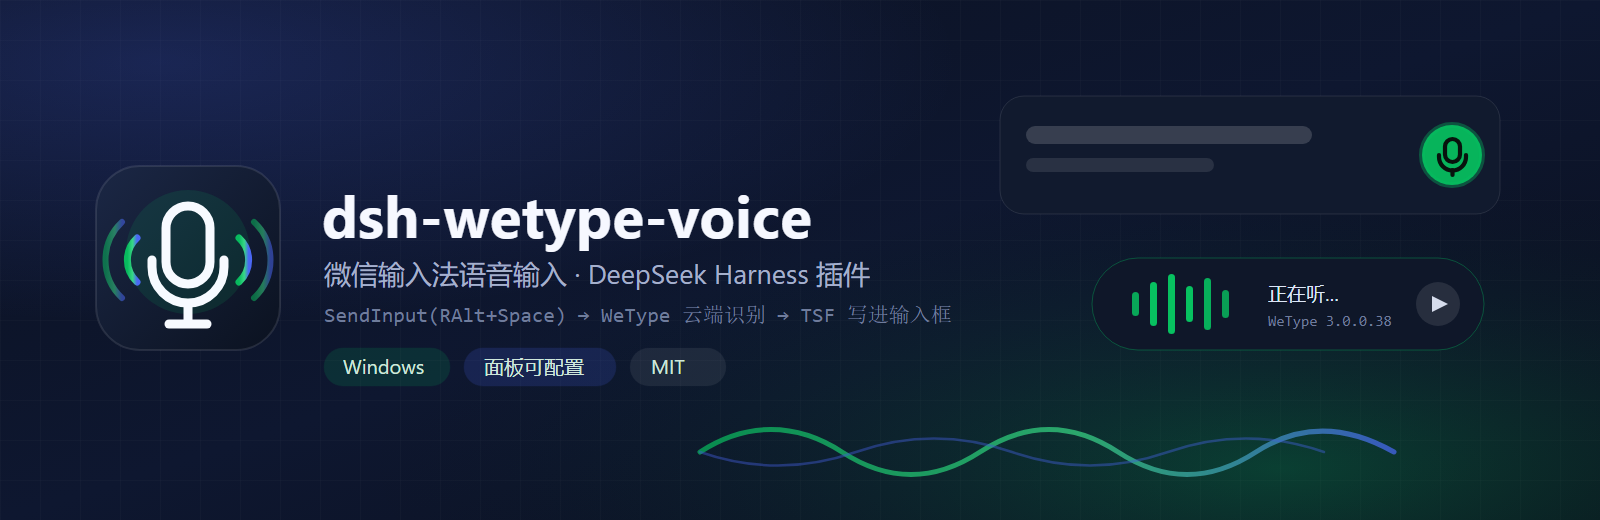
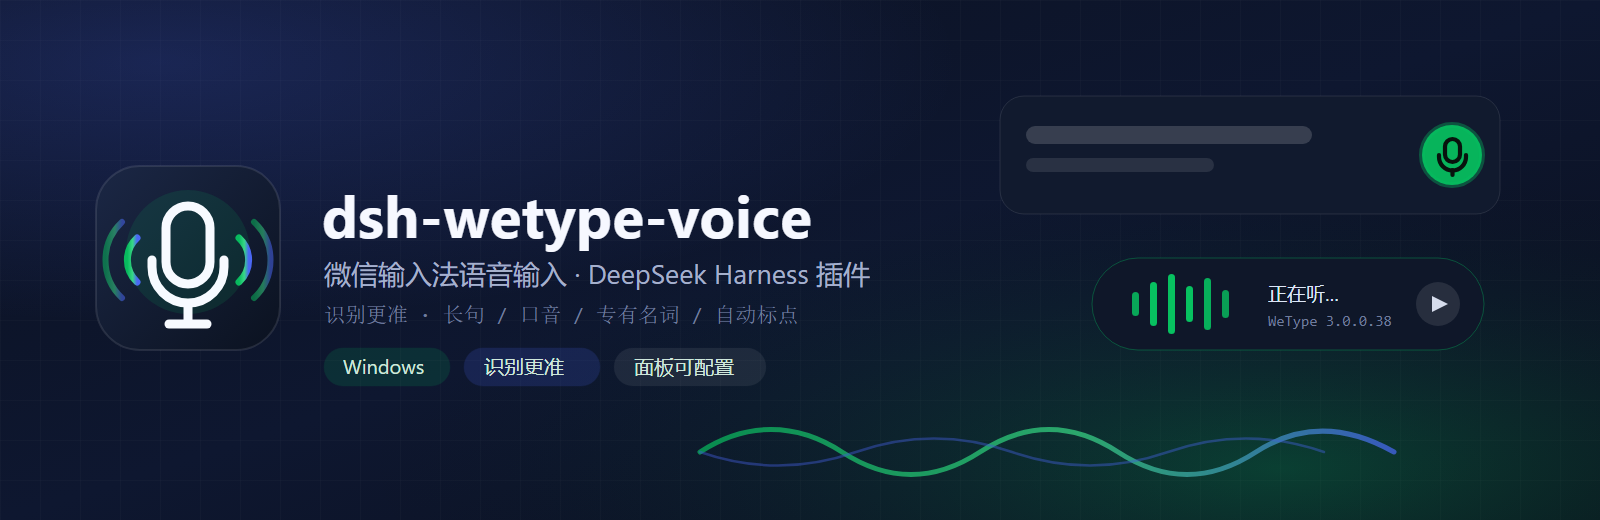
docs: lead with recognition accuracy, not local compute
The point of swapping the recogniser is that WeType's dictation is markedly
more accurate (long sentences, accents, proper nouns, punctuation) - dropping
the 240MB local model is only a side effect. Reframes the README opening and
comparison table, and rewrites the banner subtitle and the struck-through
built-in chain in the data-flow diagram to say so.

Changed region(s): [[0.1875, 0.5846, 0.5938, 0.6462], [0.2812, 0.6769, 0.4688, 0.7385]]

diff --git a/README.md b/README.md
@@ -6,7 +6,8 @@
 
 **把 DeepSeek Harness 输入框上的麦克风，换成微信输入法的语音输入。**
 
-不用内置的那套本地小模型 —— 点一下，微信输入法自己录音、云端识别、直接把文字写进输入框。
+不用内置的那套本地小模型 —— 内置的识别不准：长句掉字、口音认错、专有名词写歪、标点靠猜。
+换成微信输入法的听写后，点一下就开始说，文字直接落进输入框。
 
 [![platform](https://img.shields.io/badge/platform-Windows%20only-0078D6?logo=windows&logoColor=white)](#换一台电脑)
 [![dsh](https://img.shields.io/badge/DSH-plugin-4D6BFE)](#安装)
@@ -20,25 +21,30 @@
 
 ---
 
-## 为什么
+## 为什么换
 
-DSH 内置的语音输入是这条链路：
+要解决的问题**不是算力，是识别准确率**。
+
+DSH 内置的语音输入把这件事交给一个跑在本机的小模型：
 
 ```
 MediaRecorder 录音 → 上传 Host → sherpa-onnx + SenseVoice int8 本地识别 → 插入草稿
 ```
 
-本地小模型（~240MB int8）短句还行，长句、口音、专有名词掉字严重。
+本地小模型不用联网，代价体现在准确率上：长句会掉字，带口音会认错，人名、产品名、专业术语经常写歪，标点要么不出现、要么位置奇怪。一句话得重说两三遍，比手打还慢 —— 这才是真正让人放弃语音输入的原因。
 
-这个插件把整段换成**微信输入法自己的听写能力**：
+微信输入法的听写走云端，识别质量是另一个量级，而它本来就在这台机器上常驻。本插件要做的只是把 DSH 的麦克风接到它身上。
 
 | | 内置语音输入 | 本插件 |
 | --- | --- | --- |
-| 识别 | 本地 SenseVoice int8 | 微信输入法云端识别 |
-| 中文长句 / 口音 | 一般 | 明显更好 |
-| 额外占用 | ~240MB 模型 + 加载时间 | 无 |
+| **识别准确率** | 本地 SenseVoice int8，长句 / 口音 / 术语吃力 | 微信输入法云端识别，明显更准 |
+| **标点与断句** | 基本没有，或位置很怪 | 自动加标点，口语也能整理成句 |
+| **中英混说** | 容易串 | 好得多 |
+| **说错要重来** | 常见 | 少 |
 | 音频去哪 | 本机 | 微信输入法（DSH 不接触音频） |
-| 输入落点 | 注入草稿 | TSF 直接写进输入框 |
+| 额外占用 | ~240MB 模型 + 每次加载 | 无 |
+
+> 少加载一个 240MB 模型只是顺带的副产品，不是这个插件的目的。
 
 ## 一次点击之后发生了什么
 
